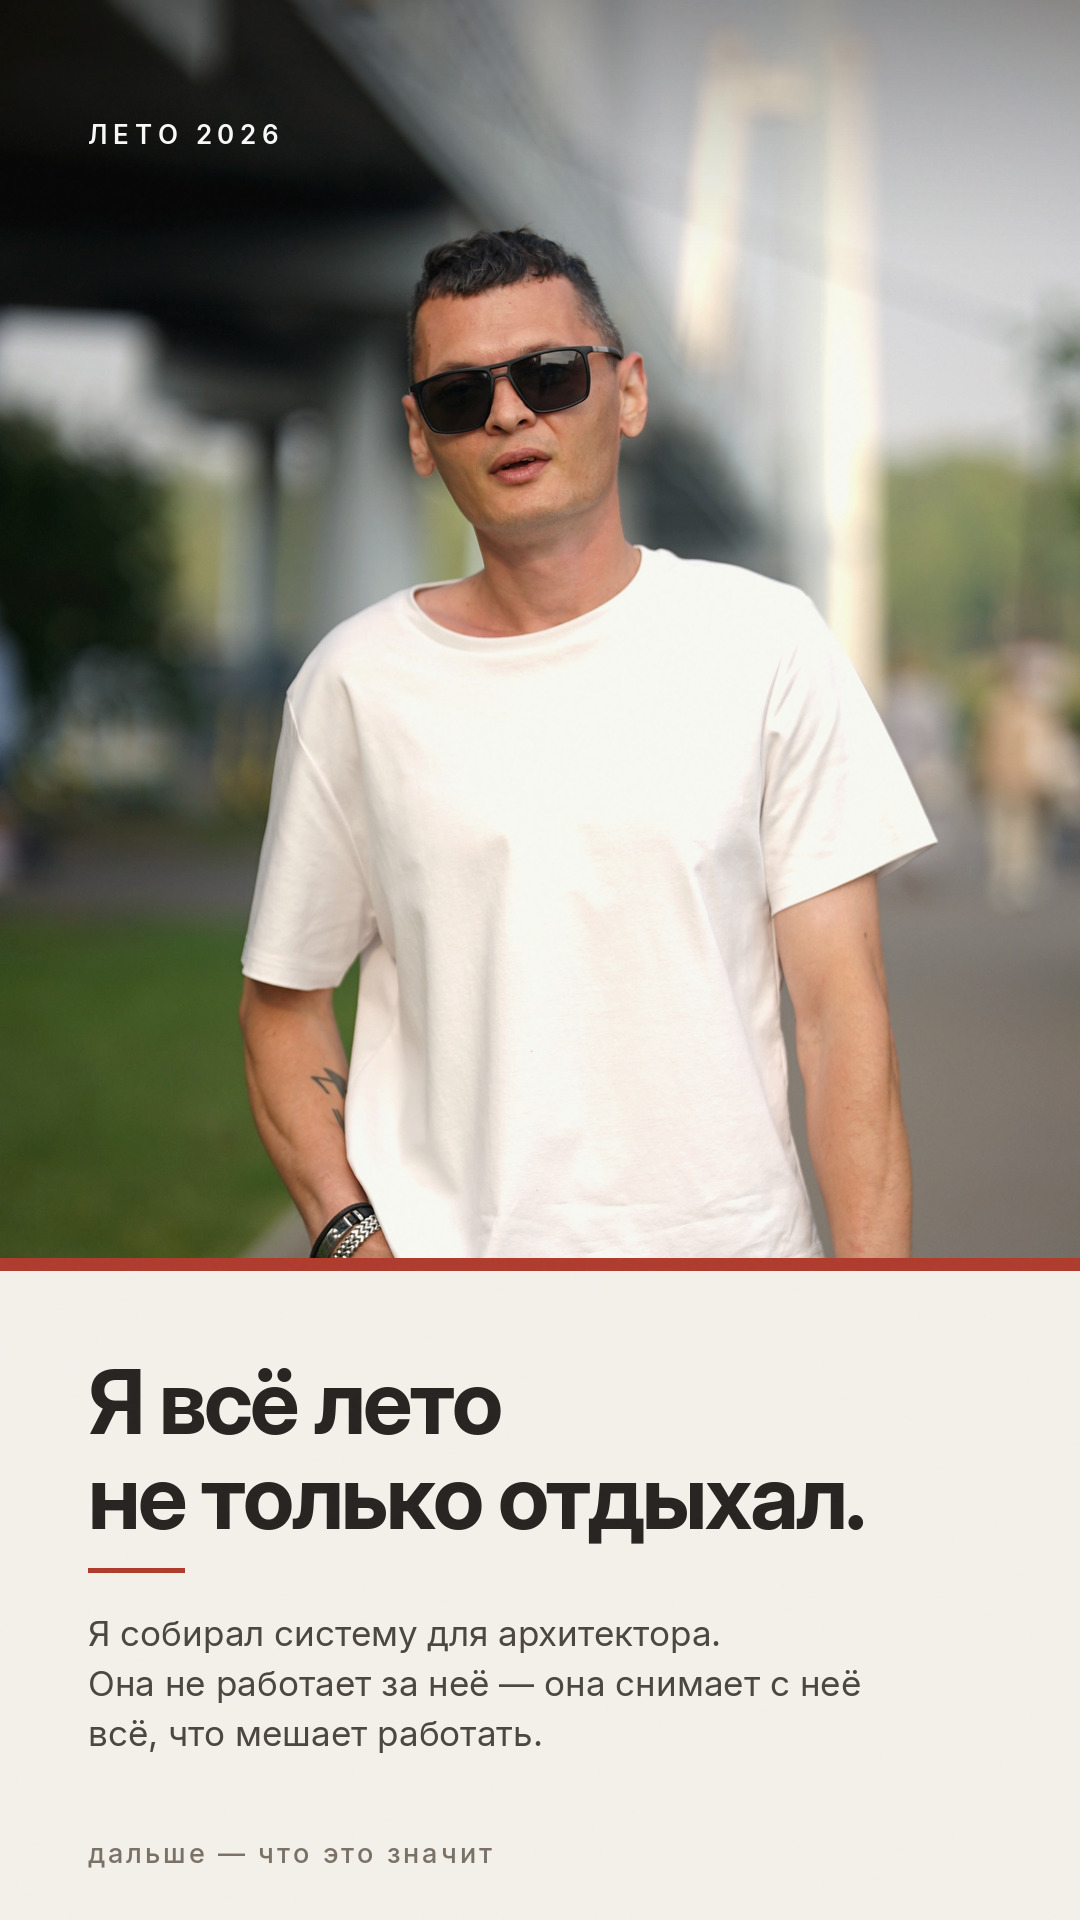
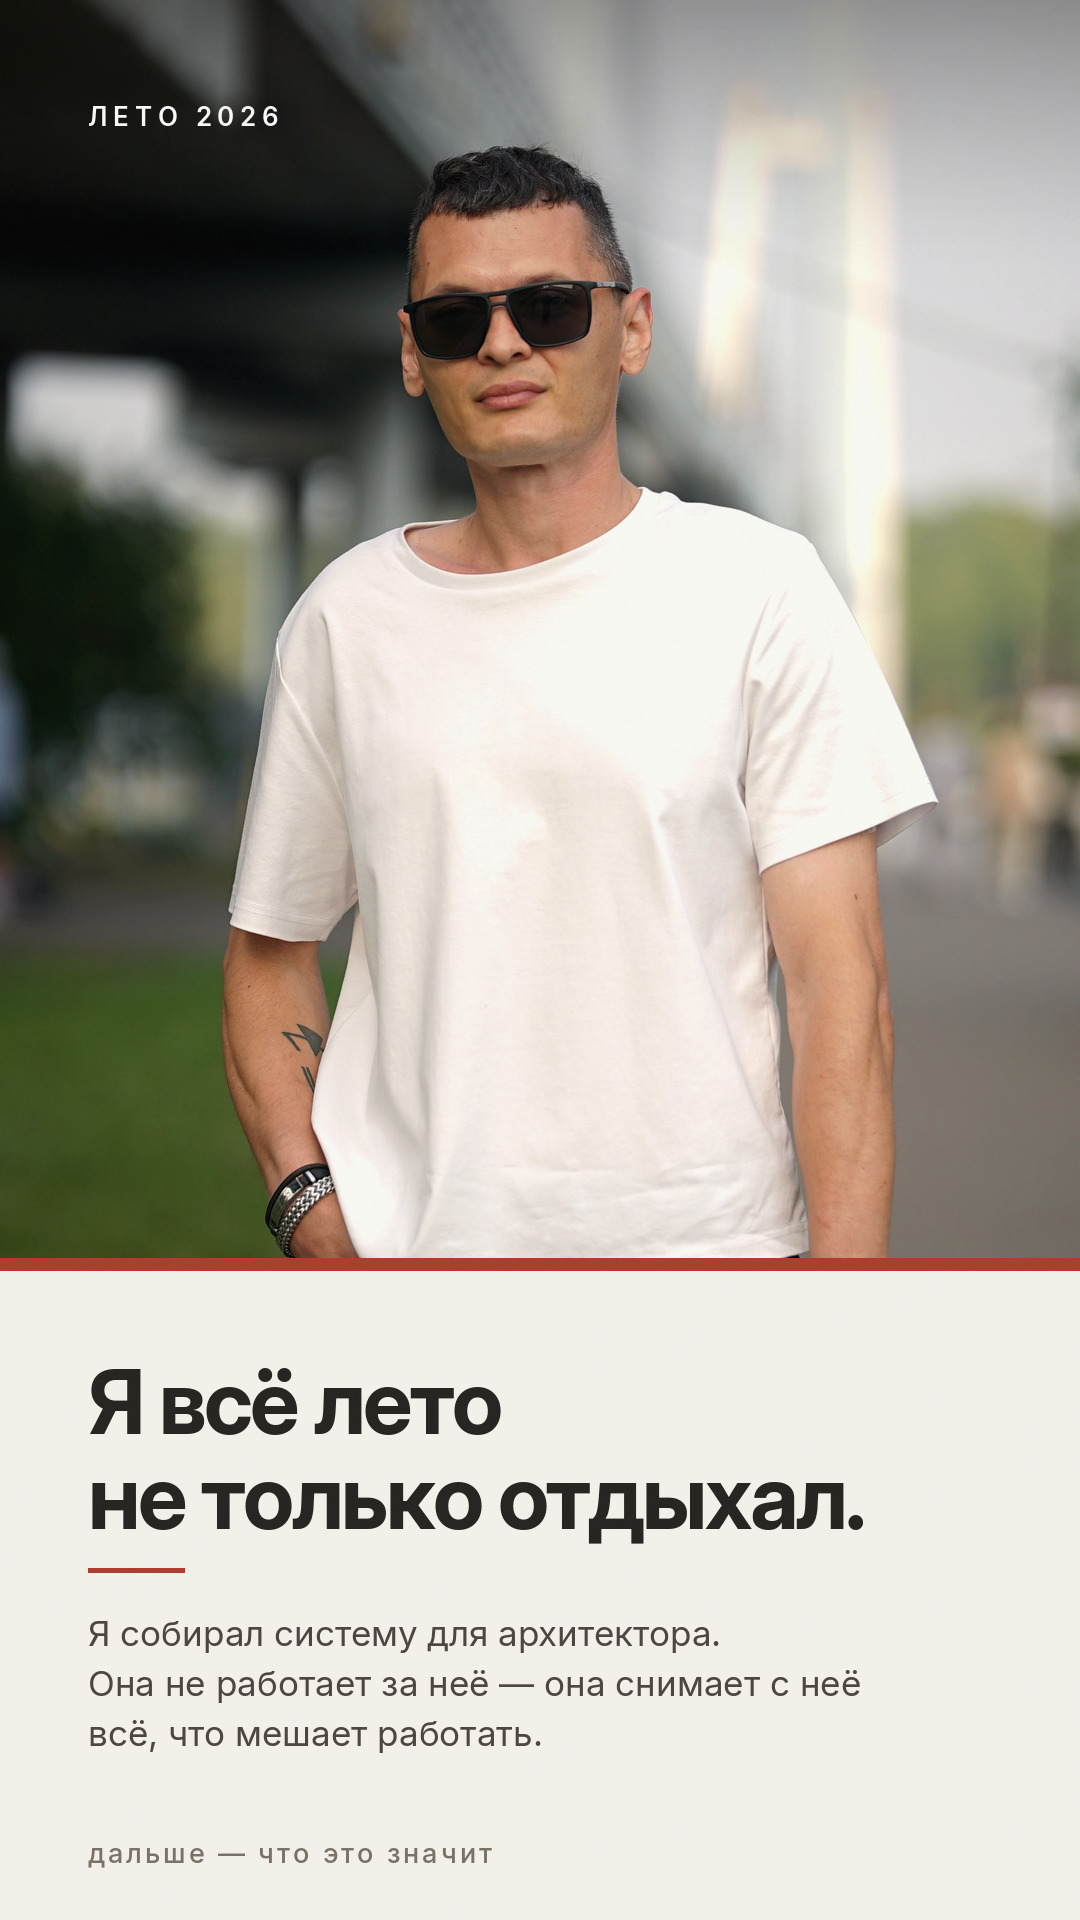
Кадр первой сторис заменён на тот, где рот закрыт
Приоткрытый рот на статичном кадре читается как «его застали врасплох»
и спорит с обещанием, под которым стоит. Закрытый — собранное лицо,
и первый кадр начинает работать на текст, а не против него.

Срез бумажной панели опущен ниже часов: на новом кадре фигура сидит
выше, и прежнее положение резало руку посередине браслета — такое
читается как ошибка кадрирования, а не как решение. Надзаголовок
поднят на тридцать пикселей, чтобы не сойтись с макушкой.

Claude-Session: https://claude.ai/code/session_01PW735Z2KYFykvmKHJc4ehd

diff --git a/marketing/make_assets.py b/marketing/make_assets.py
@@ -287,10 +287,12 @@ def inline_pair(d, xy, bold, rest, size=34, bold_fill=INK, rest_fill=MUTED):
 
 
 def story_01_hero():
+    # Кадр посажен так, чтобы срез панели прошёл ниже часов, а не по запястью:
+    # рука, обрубленная посередине браслета, читается как ошибка кадрирования.
     im, d = photo_panel(os.path.join(SRC, "photo-most.jpg"),
-                        focus=(0.52, 0.36), zoom=1.0, panel_top=1258)
+                        focus=(0.52, 0.42), zoom=1.0, panel_top=1258)
 
-    eyebrow(d, (M, 118), "лето 2026", fill=(255, 255, 255), size=26)
+    eyebrow(d, (M, 100), "лето 2026", fill=(255, 255, 255), size=26)
 
     y = 1348
     y = block(d, "Я всё лето\nне только отдыхал.", font(D_BOLD, 88),
